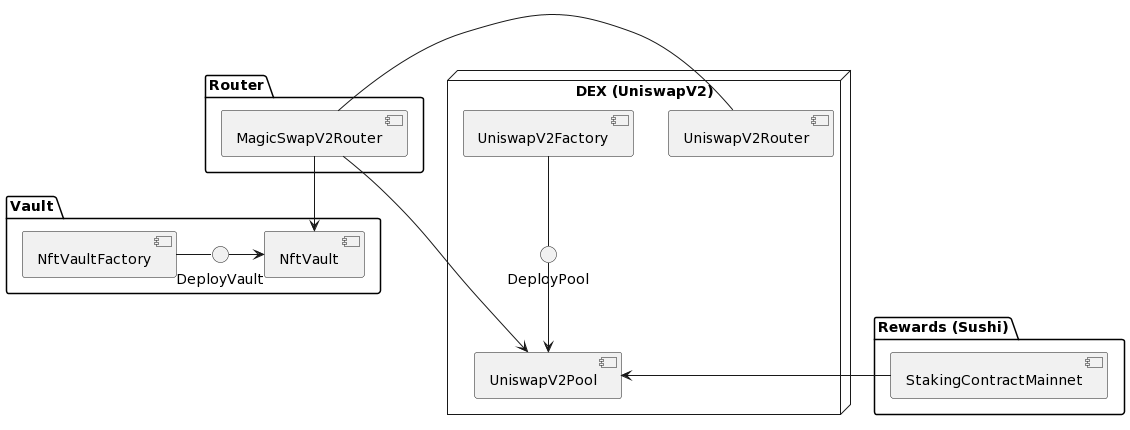
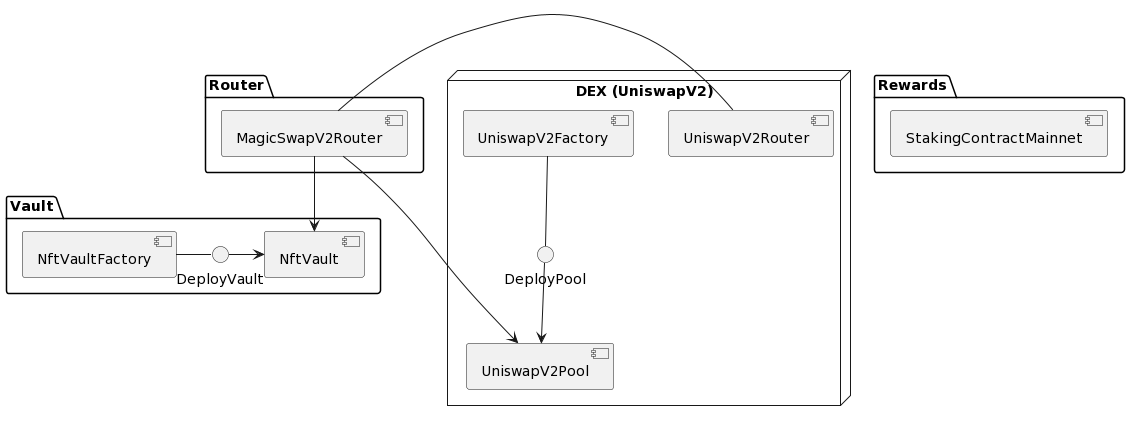
README

diff --git a/README.md b/README.md
@@ -1,7 +1,7 @@
 # MagicSwapV2
 > NFTX meets UniswapV2 meets UniswapV3 TWAP aka **MagicSwapV2**.
 
-### MagicSwapV2 is a permissionless DEX for NFTs with automated royalties and decentralized NFT TWAP oracle. 
+### MagicSwapV2 is a permissionless DEX for NFTs with automated royalties and decentralized NFT TWAP oracle.
 
 MagicSwapV2 is built with following independent modules:
 - Vault
@@ -37,9 +37,14 @@ Then, to load the variables in the .env file call
 source .env
 ```
 
-To deploy and verify MagicSwapV2 contracts
+To deploy and verify MagicSwapV2 contracts run
 ```
 forge script script/MagicswapV2.s.sol:MagicswapV2Script --rpc-url $ARBITRUM_RPC --broadcast --verify -vvvv
+```
+
+To deploy and verify Staking Contracts run
+```
+forge script script/StakingContract.s.sol:StakingContractScript --rpc-url $ARBITRUM_RPC --broadcast --verify -vvvv
 ```
 
 To simulate deployment (dry run), remove `--broadcast` option from above.
